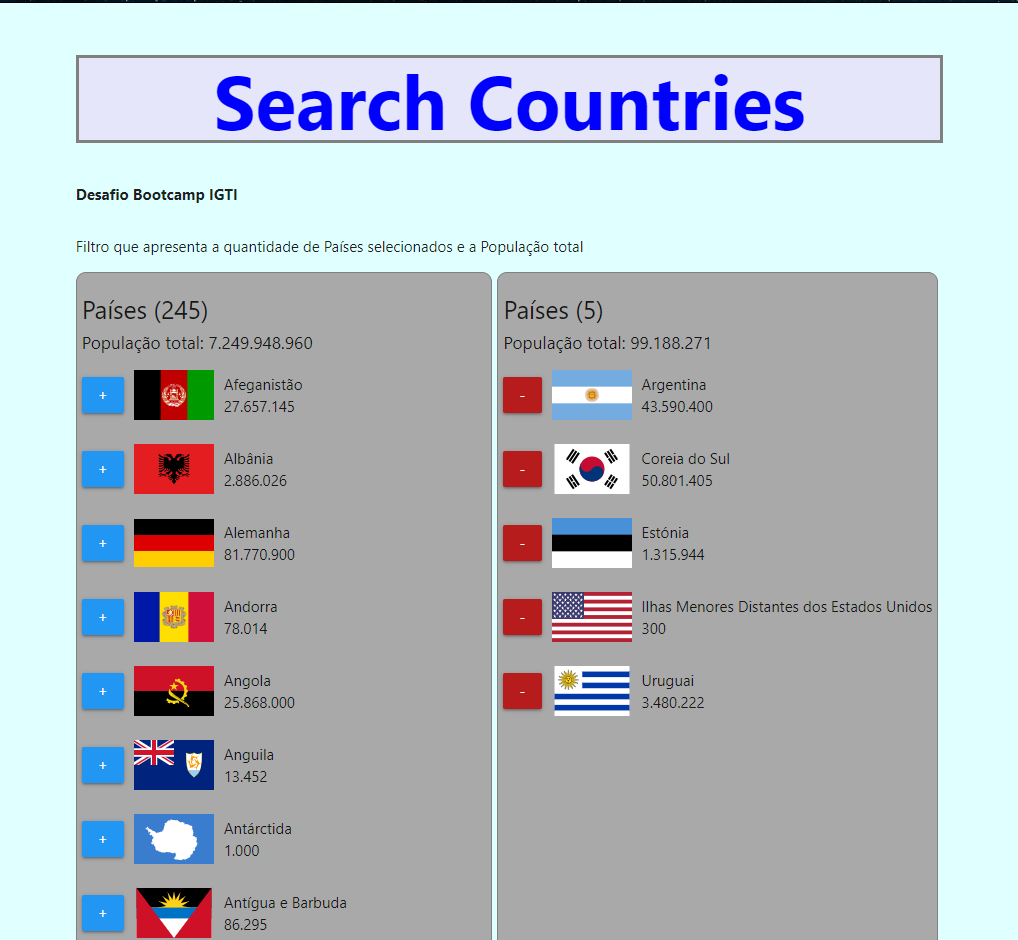
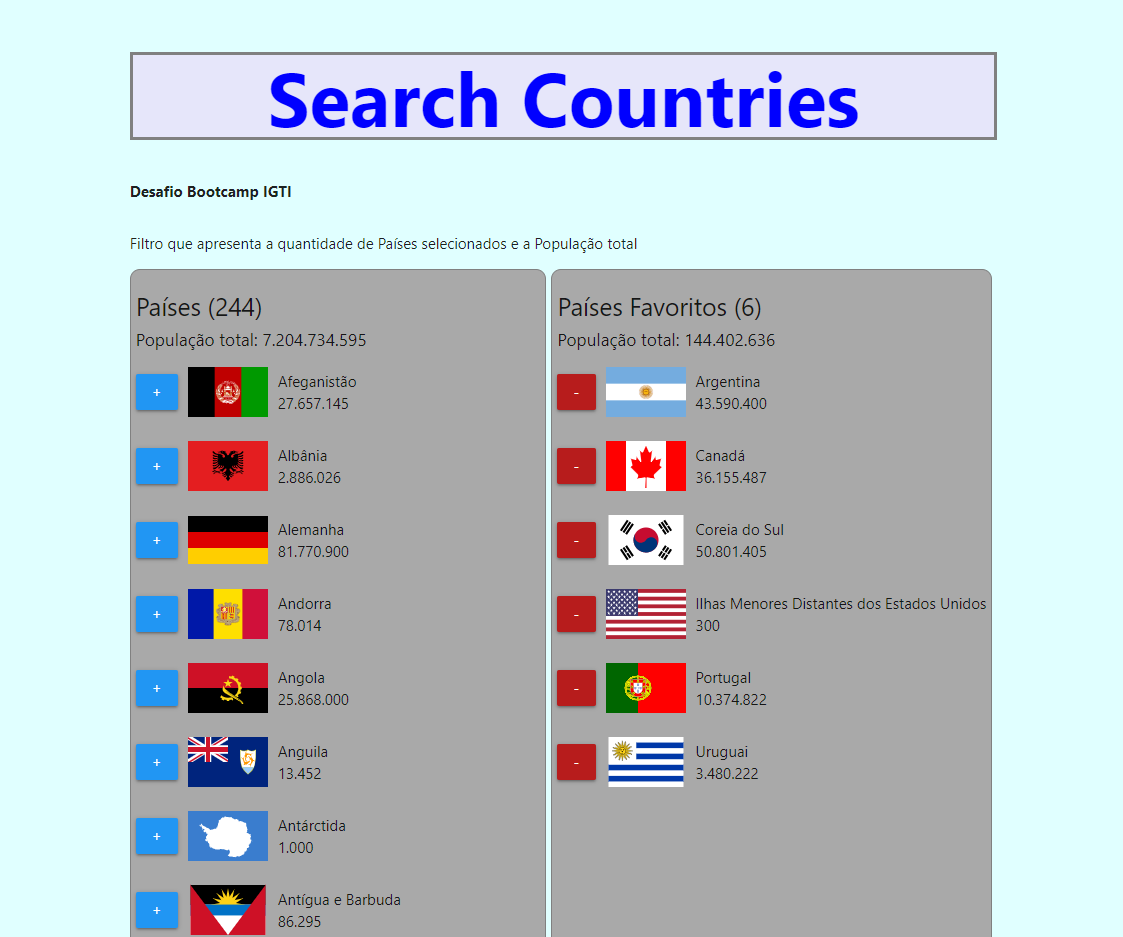
#Ajustes nos arquivos e label favoritos

Changed region(s): [[0.0609, 0.2476, 0.944, 1.0], [0.0, 0.0, 1.0, 0.1547], [0.0609, 0.1857, 0.2741, 0.2166]]

diff --git a/index.html b/index.html
@@ -23,7 +23,7 @@
       <div id="tabCountries"></div>
     </div>
     <div class="country-list">
-      <h5>Países (<span id="countFavorites"></span>)</h5>
+      <h5>Países Favoritos (<span id="countFavorites"></span>)</h5>
       <h6>População total: <span id="totalPopulationFavorites"></span></h6>
       <div id="tabFavorites"></div>
     </div>
